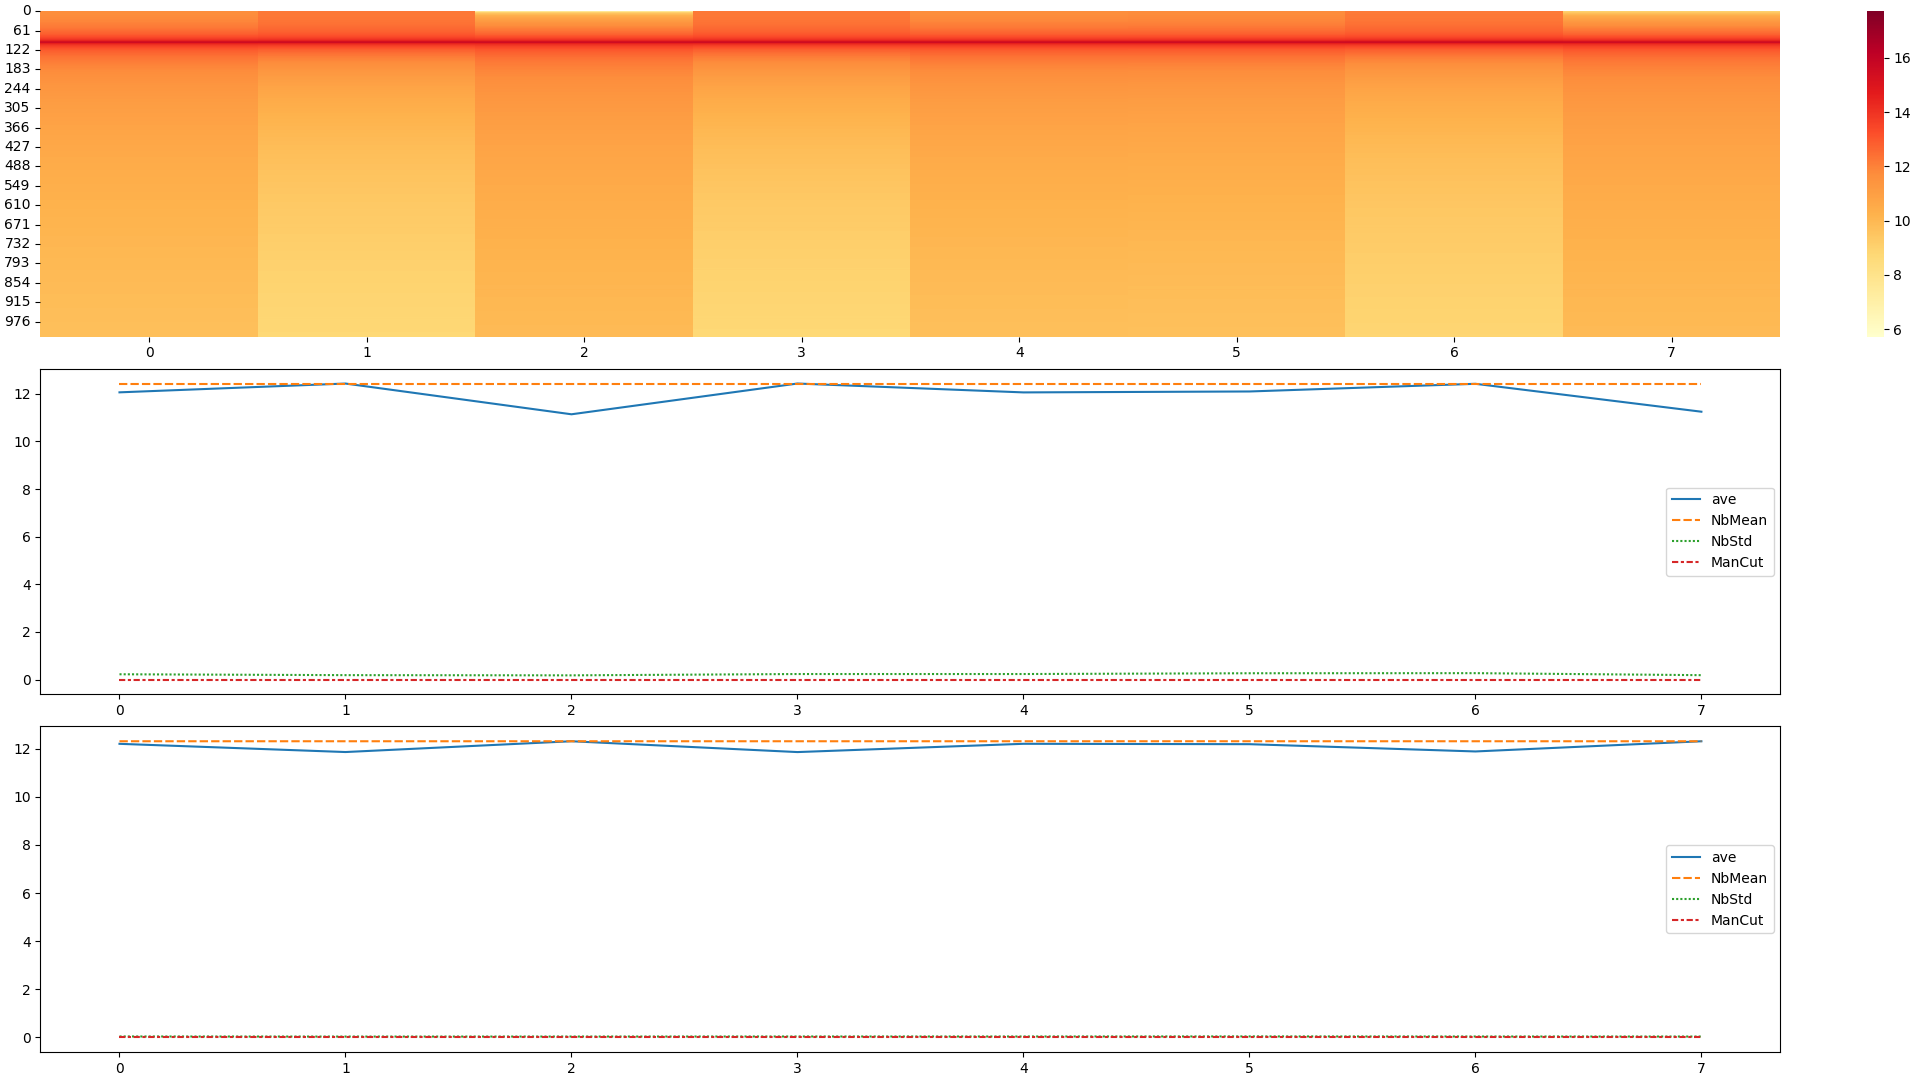
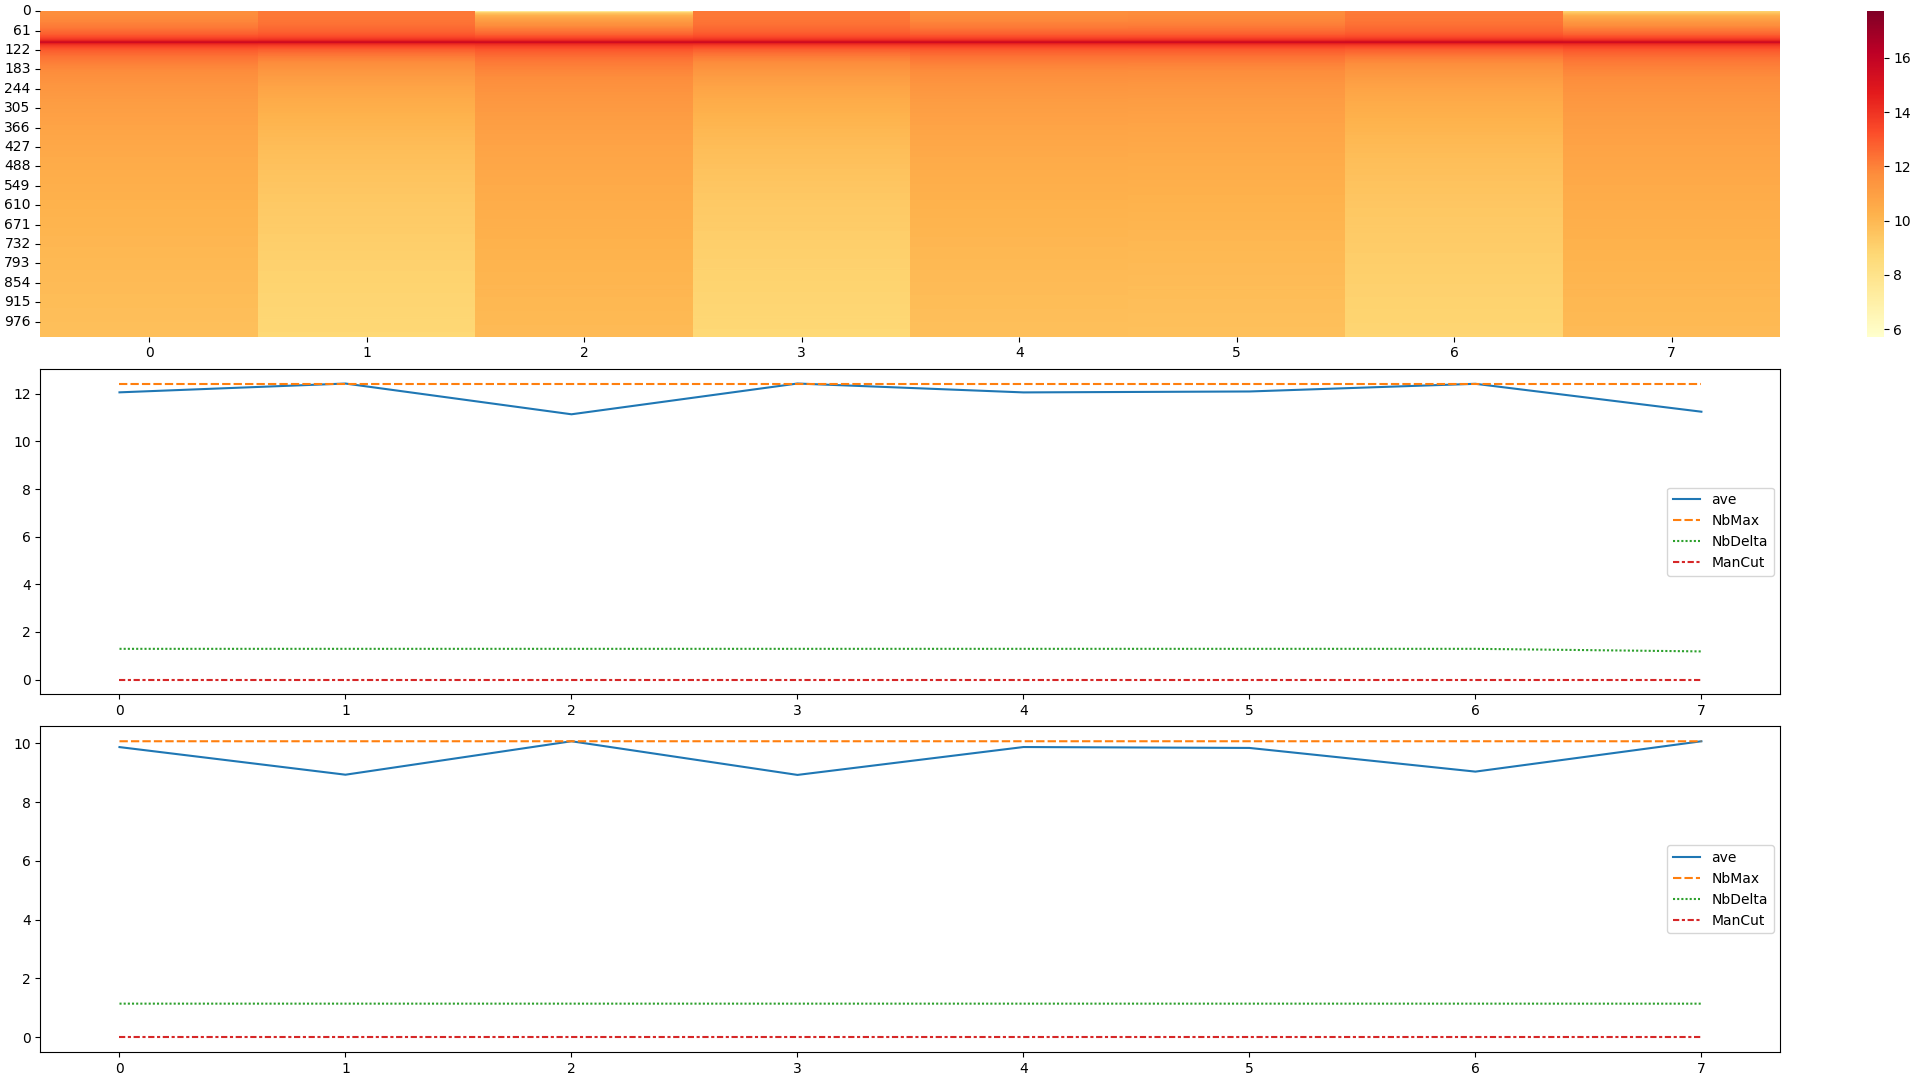
DrawMaxMinDelta

diff --git a/Tools/HeatMap.py b/Tools/HeatMap.py
@@ -92,6 +92,25 @@ def CalculateNeighborhoodMax(arr, width):
     assert len(ave) == len(arr)
     return np.array(ave)
 
+# Calculate Neighborhood Min 
+def CalculateNeighborhoodMin(arr, width):
+    assert width > 0
+    ave = []
+    for i in range(arr.shape[0]):
+        L = max(0, i - width)
+        R = min(arr.shape[0] - 1, i + width)
+
+        ave.append(arr[L : R+1].min())
+    assert len(ave) == len(arr)
+    return np.array(ave)
+
+
+# Calculate Neighborhood Min 
+def CalculateNeighborhoodDelta(arr, width):
+    return (
+            CalculateNeighborhoodMax(arr, width) -
+            CalculateNeighborhoodMin(arr, width))
+
 # calculate the mean value of a neighborhood
 def CalculateNeighborhoodMean(arr, width):
     assert width > 0
@@ -103,6 +122,22 @@ def CalculateNeighborhoodMean(arr, width):
             pos = i + j
             if 0 <= pos and pos < arr.shape[0]:
                 ans += arr[pos]
+                cnt += 1
+        ave.append(ans / cnt)
+    assert len(ave) == len(arr)
+    return np.array(ave)
+
+# calculate total mean
+def CalculateNeighborhoodTotalMean(arr, width):
+    assert width > 0
+    ave = []
+    for i in range(arr.shape[0]):
+        cnt = 0
+        ans = 0
+        for j in range(-width, width + 1):
+            pos = i + j
+            if 0 <= pos and pos < arr.shape[0]:
+                ans += arr[pos].mean()
                 cnt += 1
         ave.append(ans / cnt)
     assert len(ave) == len(arr)
@@ -138,8 +173,8 @@ aveL = np.array(aveL)
 # show subplot in axID
 def ShowDataInSubPlot(aveNP, axID):
     data_np = np.c_[aveNP, CalculateNeighborhoodMax(aveNP, WIDTH), \
-            CalculateNeighborhoodVar(aveNP, WIDTH)] 
-    tags = ["ave", "NbMean", "NbStd"]
+            CalculateNeighborhoodDelta(aveNP, WIDTH)] 
+    tags = ["ave", "NbMax", "NbDelta"]
 
     if HAS_MANFILE:
         data_np = np.c_[data_np, CalculateNeighborhoodMean(manSeq, WIDTH)]
@@ -152,7 +187,7 @@ ShowDataInSubPlot(aveL, 1)
 # calculate the Middle Freq ave map
 aveH = []
 for i in range(df.shape[0]):
-    aveH.append(df[i, 73:292].mean())
+    aveH.append(np.median(df[i, 732:1024]))
 aveH = np.array(aveH)
 
 ShowDataInSubPlot(aveH, 2)
